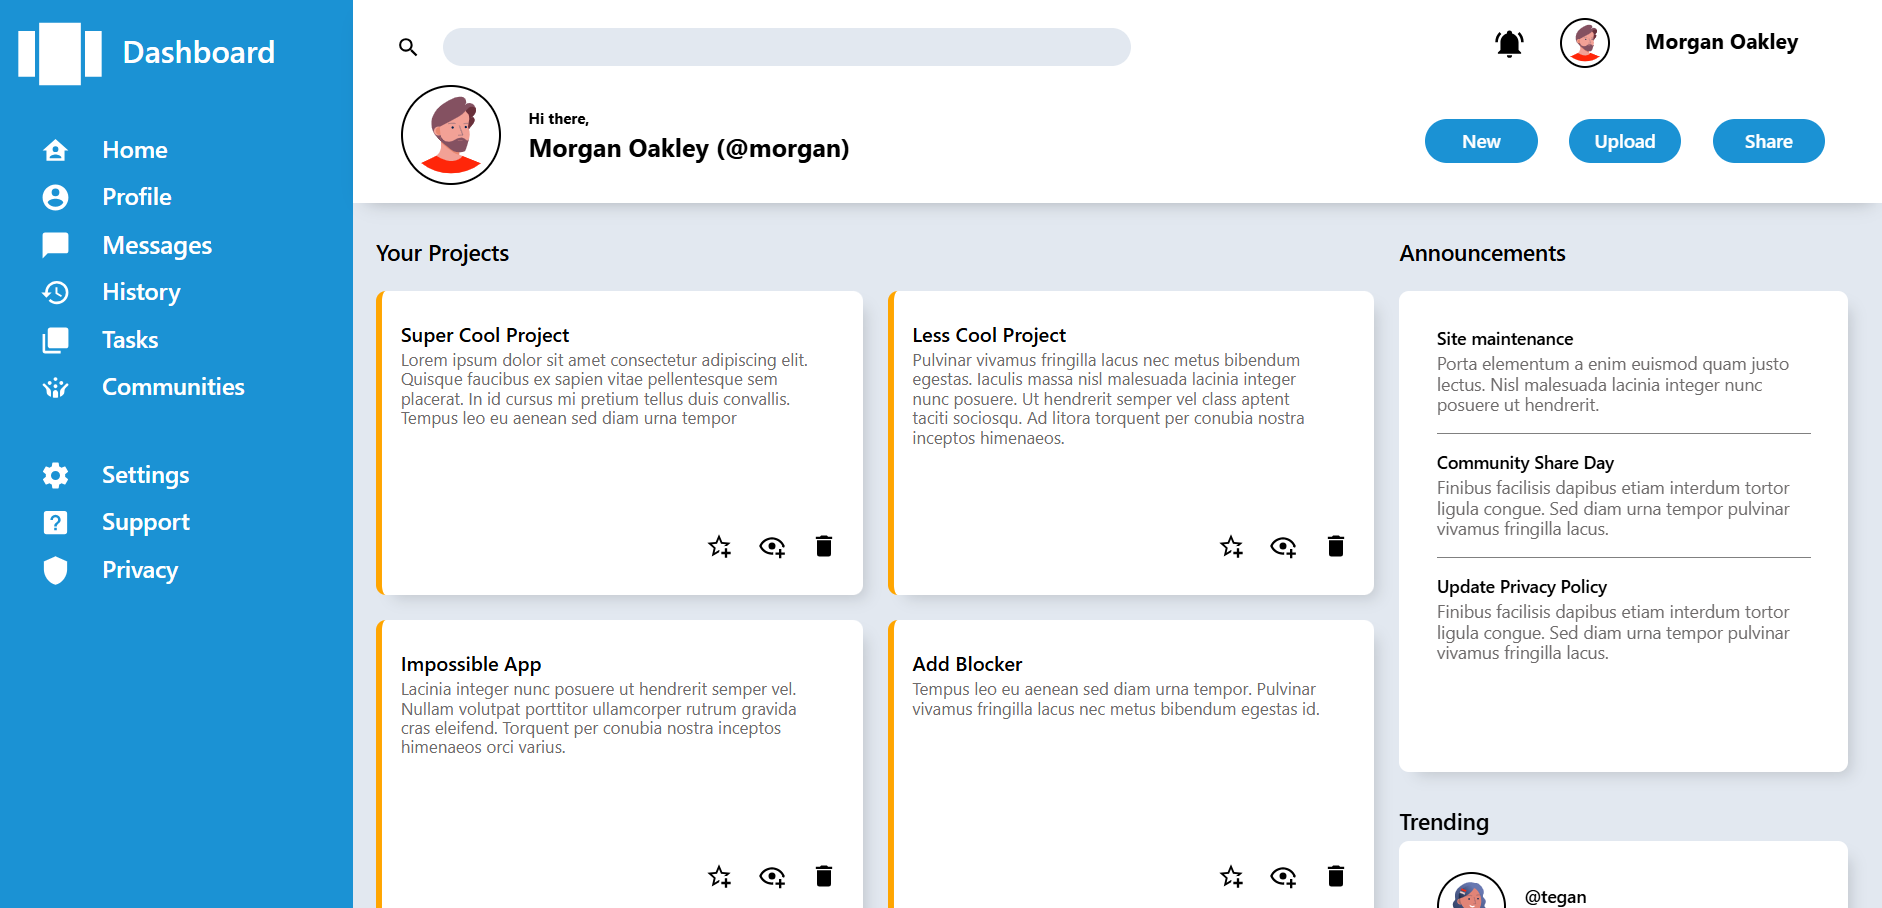
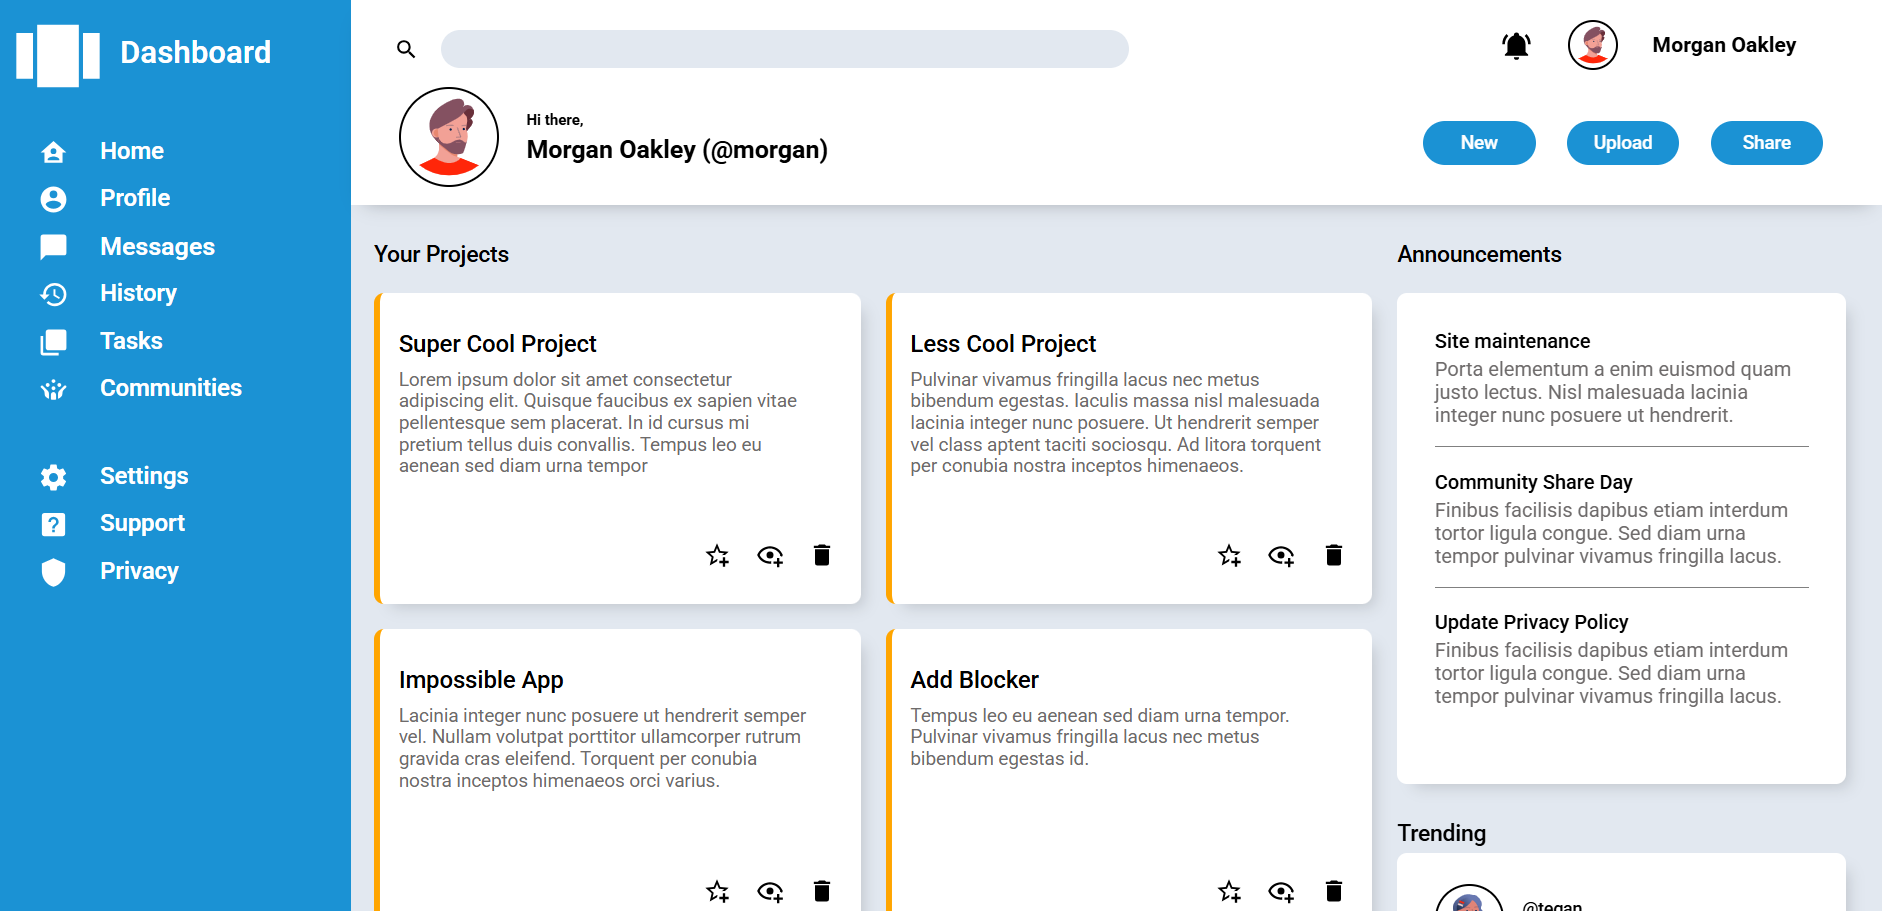
make font size a bit bigger

diff --git a/index.html b/index.html
@@ -88,7 +88,7 @@
                 <p class="Announcements">Announcements</p>
                 <div class="firstContainer">
                     <div class="containerText">
-                        <p class="projectName" style="font-weight: 500; font-size: 16px;">Super Cool Project</p>
+                        <p class="projectName" style="font-weight: 500; font-size: 19px;">Super Cool Project</p>
                         <p style="color: rgb(110, 107, 107);">Lorem ipsum dolor sit amet consectetur adipiscing elit. Quisque faucibus ex sapien vitae pellentesque sem placerat. In id cursus mi pretium tellus duis convallis. Tempus leo eu aenean sed diam urna tempor</p>
                     </div>
                     <div class="containerSvgs">
@@ -99,7 +99,7 @@
                 </div>
                 <div class="secondContainer">
                     <div class="containerText">
-                        <p class="projectName" style="font-weight: 500; font-size: 16px;">Less Cool Project</p>
+                        <p class="projectName" style="font-weight: 500; font-size: 19px;">Less Cool Project</p>
                         <p style="color: rgb(110, 107, 107);">Pulvinar vivamus fringilla lacus nec metus bibendum egestas. Iaculis massa nisl malesuada lacinia integer nunc posuere. Ut hendrerit semper vel class aptent taciti sociosqu. Ad litora torquent per conubia nostra inceptos himenaeos.</p>
                     </div>
                     <div class="containerSvgs">
@@ -110,7 +110,7 @@
                 </div>
                 <div class="thridContainer">
                     <div class="containerText">
-                        <p class="projectName" style="font-weight: 500; font-size: 16px;">Impossible App</p>
+                        <p class="projectName" style="font-weight: 500; font-size: 19px;">Impossible App</p>
                         <p style="color: rgb(110, 107, 107);">Lacinia integer nunc posuere ut hendrerit semper vel. Nullam volutpat porttitor ullamcorper rutrum gravida cras eleifend. Torquent per conubia nostra inceptos himenaeos orci varius.</p>
                     </div>
                     <div class="containerSvgs">
@@ -121,7 +121,7 @@
                 </div>
                 <div class="fourthContainer">
                     <div class="containerText">
-                        <p class="projectName" style="font-weight: 500; font-size: 16px;">Add Blocker</p>
+                        <p class="projectName" style="font-weight: 500; font-size: 19px;">Add Blocker</p>
                         <p style="color: rgb(110, 107, 107);">Tempus leo eu aenean sed diam urna tempor. Pulvinar vivamus fringilla lacus nec metus bibendum egestas id.</p>
                     </div>
                     <div class="containerSvgs">
@@ -132,7 +132,7 @@
                 </div>
                 <div class="fifthContainer">
                     <div class="containerText">
-                        <p class="projectName" style="font-weight: 500; font-size: 16px;">Easy Peasy App</p>
+                        <p class="projectName" style="font-weight: 500; font-size: 19px;">Easy Peasy App</p>
                         <p style="color: rgb(110, 107, 107);">Suspendisse aliquet nisi sodales consequat magna ante condimentum. In id cursus mi pretium tellus duis convallis. Dapibus etiam interdum tortor ligula congue sollicitudin erat. Urna tempor pulvinar vivamus fringilla lacus nec metus. Aenim euismod quam justo lectus commodo augue. Lacinia integer nunc posuere ut hendrerit semper vel.</p>
                     </div>
                     <div class="containerSvgs">
@@ -143,7 +143,7 @@
                 </div>
                 <div class="sixthContainer">
                     <div class="containerText">
-                        <p class="projectName" style="font-weight: 500; font-size: 16px;">Money Maker</p>
+                        <p class="projectName" style="font-weight: 500; font-size: 19px;">Money Maker</p>
                         <p style="color: rgb(110, 107, 107);">Rutrum gravida cras eleifend turpis fames primis vulputate. Inceptos himenaeos orci varius natoque penatibus et magnis. Venenatis ultrices proin libero feugiat tristique accumsan maecenas. </p>
                     </div>
                     <div class="containerSvgs">
@@ -155,16 +155,16 @@
                 <div class="announcementAndTrendingTable">
                     <div class="announcementTable">
                         <div class="maintenance">
-                            <p class="projectName" style="font-weight: 500; font-size: 14px;">Site maintenance</p>
-                            <p style="color: rgb(110, 107, 107); font-size: 14px;">Porta elementum a enim euismod quam justo lectus. Nisl malesuada lacinia integer nunc posuere ut hendrerit.</p>
+                            <p class="projectName" style="font-weight: 500; font-size: 16px;">Site maintenance</p>
+                            <p style="color: rgb(110, 107, 107); font-size: 16px;">Porta elementum a enim euismod quam justo lectus. Nisl malesuada lacinia integer nunc posuere ut hendrerit.</p>
                         </div>
                         <div class="communityDay">
-                            <p class="projectName" style="font-weight: 500; font-size: 14px;">Community Share Day</p>
-                            <p style="color: rgb(110, 107, 107); font-size: 14px;">Finibus facilisis dapibus etiam interdum tortor ligula congue. Sed diam urna tempor pulvinar vivamus fringilla lacus.</p>
+                            <p class="projectName" style="font-weight: 500; font-size: 16px;">Community Share Day</p>
+                            <p style="color: rgb(110, 107, 107); font-size: 16px;">Finibus facilisis dapibus etiam interdum tortor ligula congue. Sed diam urna tempor pulvinar vivamus fringilla lacus.</p>
                         </div>
                         <div class="updatePrivacy">
-                            <p class="projectName" style="font-weight: 500; font-size: 14px;">Update Privacy Policy</p>
-                            <p style="color: rgb(110, 107, 107); font-size: 14px;">Finibus facilisis dapibus etiam interdum tortor ligula congue. Sed diam urna tempor pulvinar vivamus fringilla lacus.</p>
+                            <p class="projectName" style="font-weight: 500; font-size: 16px;">Update Privacy Policy</p>
+                            <p style="color: rgb(110, 107, 107); font-size: 16px;">Finibus facilisis dapibus etiam interdum tortor ligula congue. Sed diam urna tempor pulvinar vivamus fringilla lacus.</p>
                         </div>
                     </div>
                     <div class="trendingTable">

diff --git a/style.css b/style.css
@@ -203,7 +203,8 @@ button {
 }
 
 .containerText > p{
-    font-size: 13.5px;
+    padding-top: 5px;
+    font-size: 15px;
 }
 .containerText{
     padding-top: 25px;
@@ -246,7 +247,7 @@ button {
 .announcementTable{
     display: flex;
     flex-direction: column;
-    gap: 15px;
+    gap: 19px;
     padding: 30px;
     background-color: white;
     border-radius: 8px;
